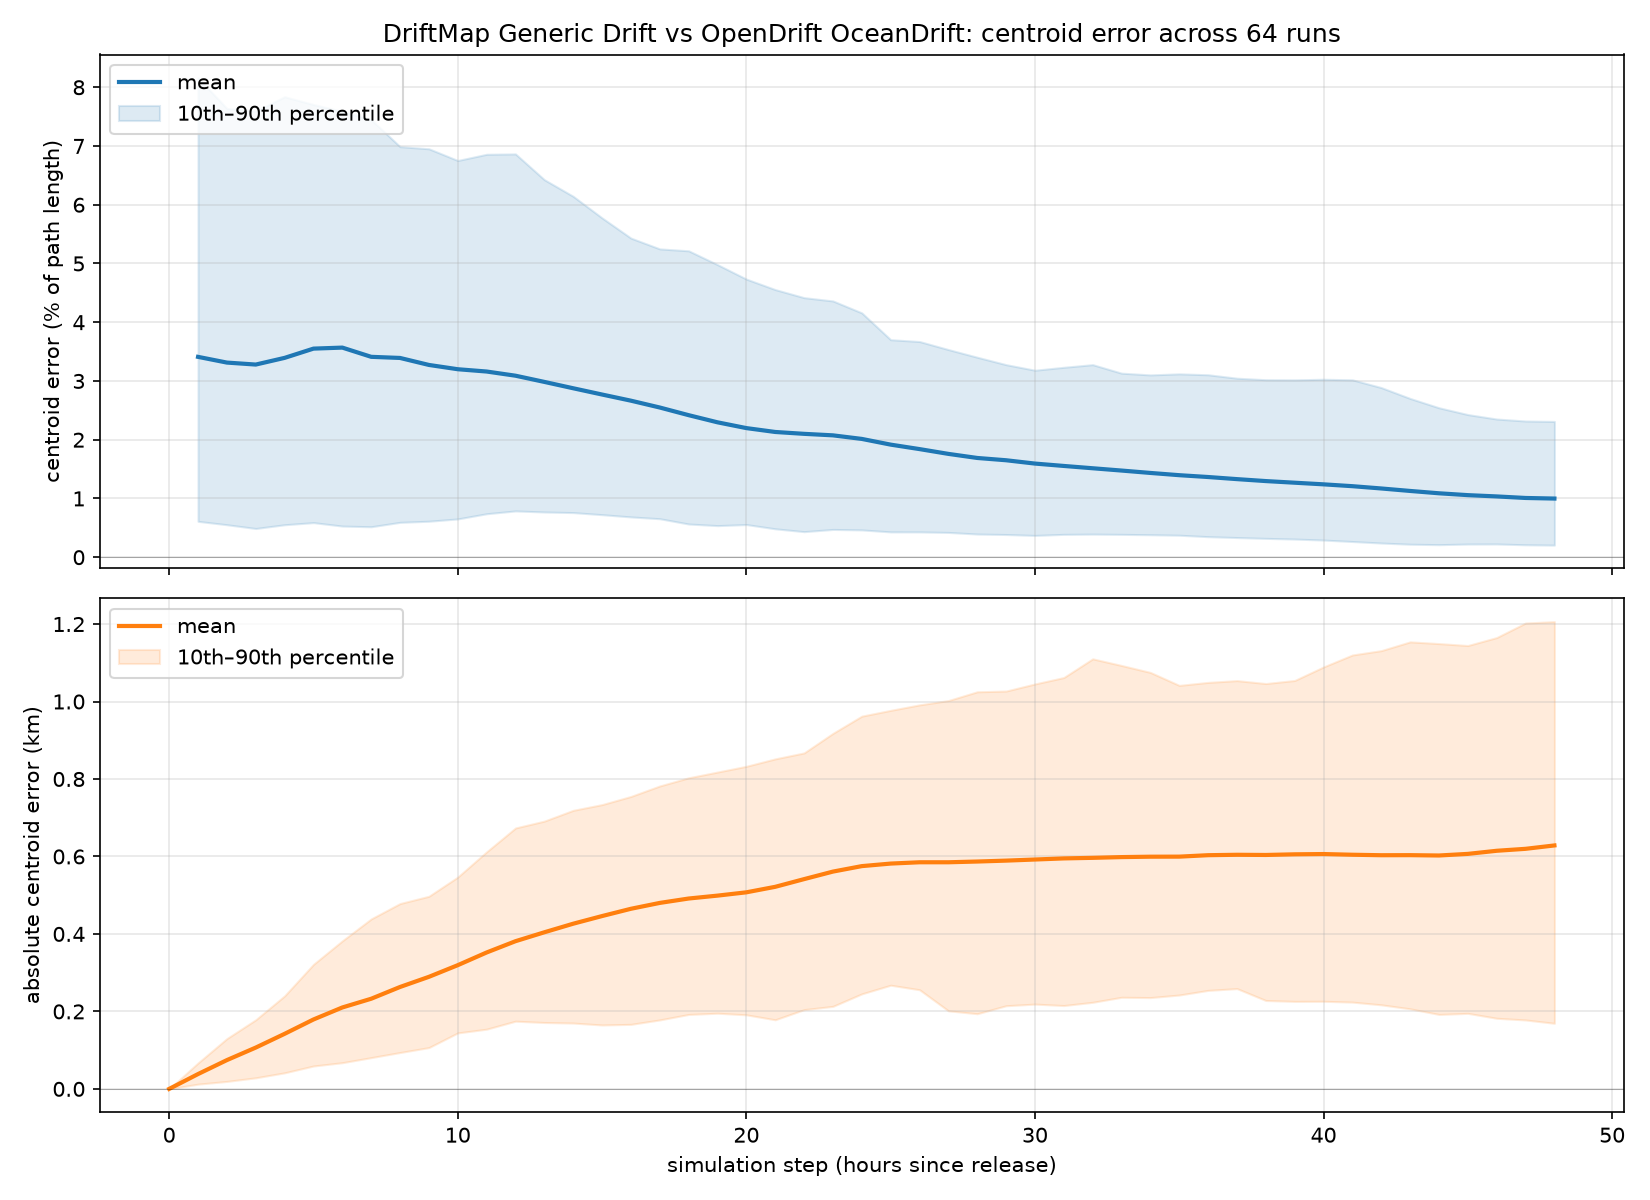
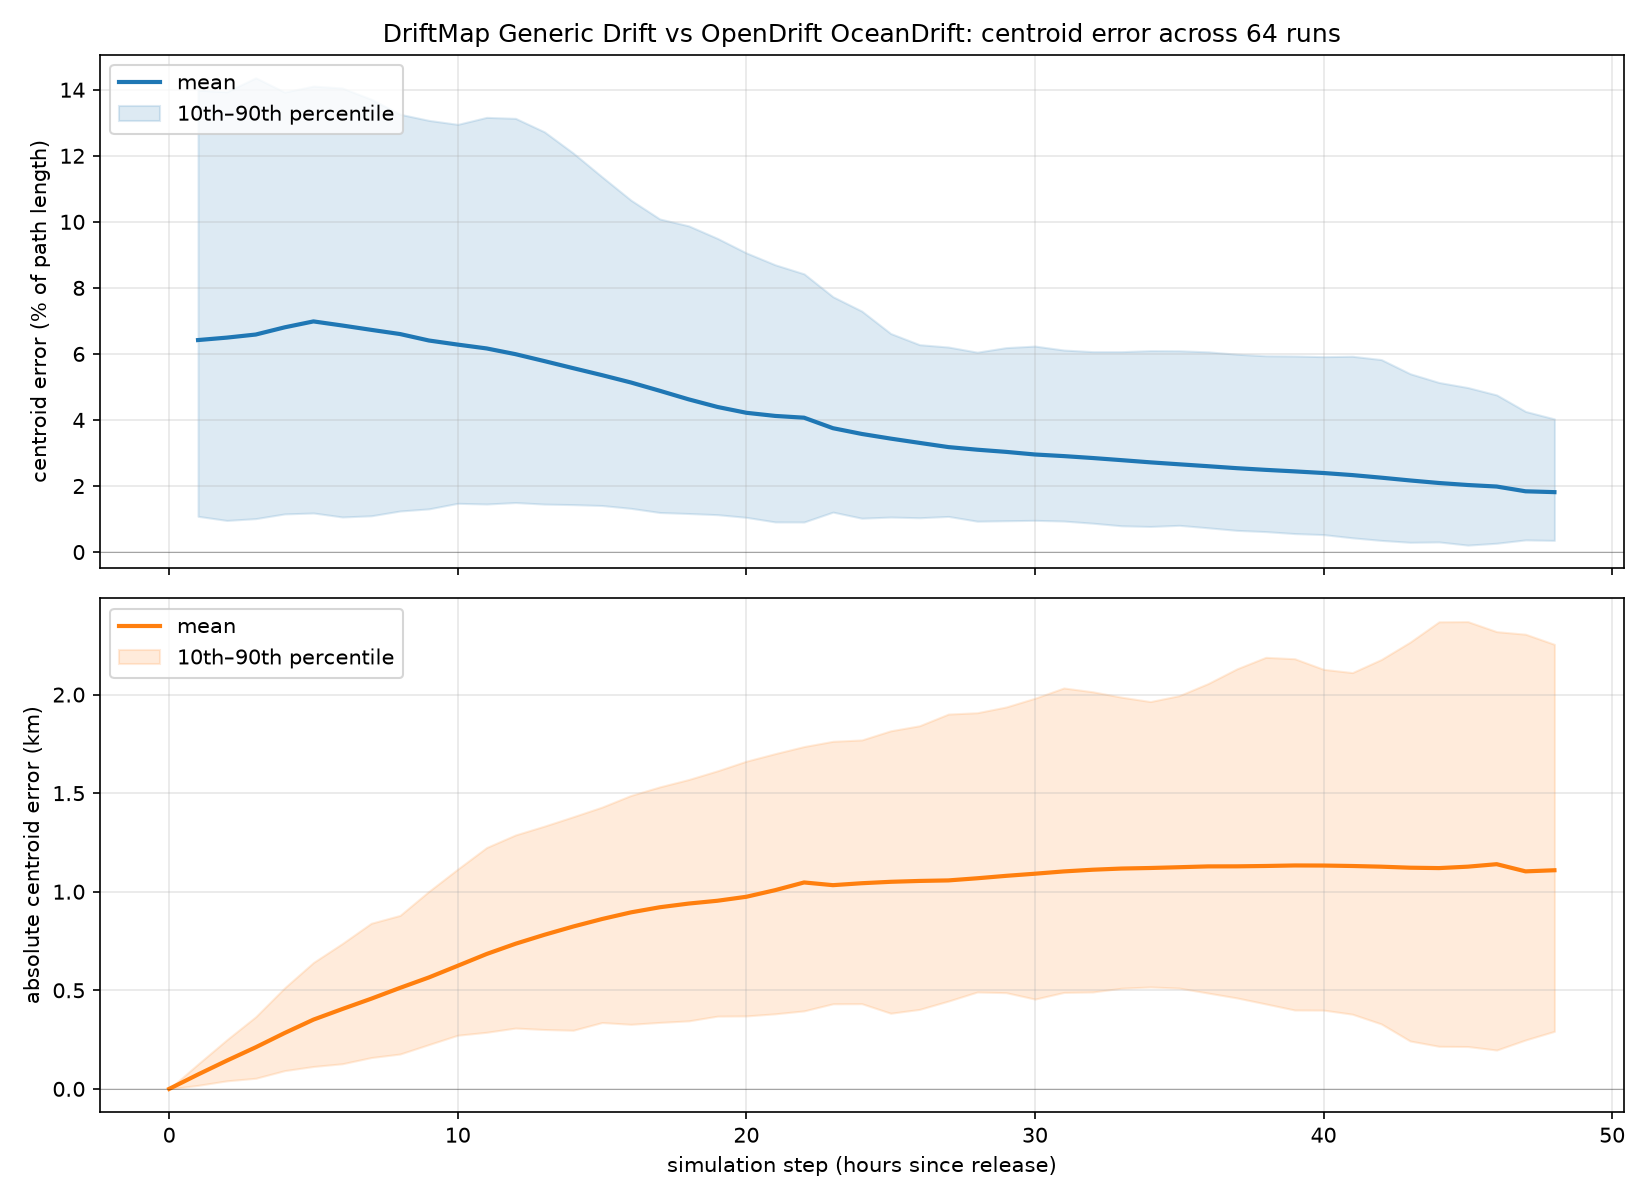
changed get_velocities_slice closure to respect intermediate time increments for temporal interpolation to match opendrift's advect_ocean_current integrators. this fix worsened centroid error vs opendrift, which will be investigated in the future

diff --git a/crates/proteus-core/src/basemodel/integrators.rs b/crates/proteus-core/src/basemodel/integrators.rs
@@ -12,7 +12,7 @@ impl Integrator {
         view: &ParticleView,
         dt: f32,
         get_velocities_view: impl Fn(&ParticleView) -> Vec<(f32, f32)>,
-        get_velocities_slice: impl Fn(&[(f32, f32, f32)]) -> Vec<(f32, f32)>,
+        get_velocities_slice: impl Fn(&[(f32, f32, f32)], f32) -> Vec<(f32, f32)>,
     ) -> Vec<(f32, f32, f32)> {
         match self {
             Integrator::Euler => euler_step(view, dt, get_velocities_view, get_velocities_slice),
@@ -26,7 +26,7 @@ pub fn euler_step(
     view: &ParticleView,
     dt: f32,
     get_velocities_view: impl Fn(&ParticleView) -> Vec<(f32, f32)>,
-    _get_velocities_slice: impl Fn(&[(f32, f32, f32)]) -> Vec<(f32, f32)>,
+    _get_velocities_slice: impl Fn(&[(f32, f32, f32)], f32) -> Vec<(f32, f32)>,
 ) -> Vec<(f32, f32, f32)> {
     let velocities = get_velocities_view(view);
     view.iter()
@@ -44,10 +44,10 @@ pub fn midpoint_step(
     view: &ParticleView,
     dt: f32,
     get_velocities_view: impl Fn(&ParticleView) -> Vec<(f32, f32)>,
-    get_velocities_slice: impl Fn(&[(f32, f32, f32)]) -> Vec<(f32, f32)>,
+    get_velocities_slice: impl Fn(&[(f32, f32, f32)], f32) -> Vec<(f32, f32)>,
 ) -> Vec<(f32, f32, f32)> {
     let k1 = get_velocities_view(view);
-    let k2 = get_velocities_slice(&compute_intermediate_positions(view, 0.5 * dt, &k1));
+    let k2 = get_velocities_slice(&compute_intermediate_positions(view, 0.5 * dt, &k1), 0.5 * dt);
 
     view.iter()
         .map(|(i, lon, lat, depth)| {
@@ -64,12 +64,12 @@ pub fn rk4_step(
     view: &ParticleView,
     dt: f32,
     get_velocities_view: impl Fn(&ParticleView) -> Vec<(f32, f32)>,
-    get_velocities_slice: impl Fn(&[(f32, f32, f32)]) -> Vec<(f32, f32)>,
+    get_velocities_slice: impl Fn(&[(f32, f32, f32)], f32) -> Vec<(f32, f32)>,
 ) -> Vec<(f32, f32, f32)> {
     let k1 = get_velocities_view(view);
-    let k2 = get_velocities_slice(&compute_intermediate_positions(view, 0.5 * dt, &k1));
-    let k3 = get_velocities_slice(&compute_intermediate_positions(view, 0.5 * dt, &k2));
-    let k4 = get_velocities_slice(&compute_intermediate_positions(view, dt, &k3));
+    let k2 = get_velocities_slice(&compute_intermediate_positions(view, 0.5 * dt, &k1), 0.5 * dt);
+    let k3 = get_velocities_slice(&compute_intermediate_positions(view, 0.5 * dt, &k2), 0.5 * dt);
+    let k4 = get_velocities_slice(&compute_intermediate_positions(view, dt, &k3), dt);
 
     view.iter()
         .map(|(i, lon, lat, depth)| {

diff --git a/crates/proteus-core/src/basemodel/simulation.rs b/crates/proteus-core/src/basemodel/simulation.rs
@@ -145,8 +145,14 @@ impl Simulation {
                 .collect()
         };
 
-        let get_velocities_slice = |slice: &[(f32, f32, f32)]| -> Vec<(f32, f32)> {
-            let env = loader.get_velocities_wind_slice(slice, current_day, hour);
+        let get_velocities_slice = |slice: &[(f32, f32, f32)], dt: f32| -> Vec<(f32, f32)> {
+            let mut new_hour = hour + dt / 3600.0;
+            let mut new_day = current_day;
+            if new_hour >= 24.0 {
+                new_hour -= 24.0;
+                new_day += 1;
+            }
+            let env = loader.get_velocities_wind_slice(slice, new_day, new_hour);
             env.iter()
                 .copied()
                 .enumerate()

diff --git a/crates/proteus-core/src/basemodel/mod.rs b/crates/proteus-core/src/basemodel/mod.rs
@@ -6,7 +6,6 @@ pub mod particles;
 pub mod release_manager;
 pub mod simulation;
 pub mod utils;
-pub mod wasm;
 
 pub use data_loader::DataLoader;
 pub use diffusion::Diffusion;
